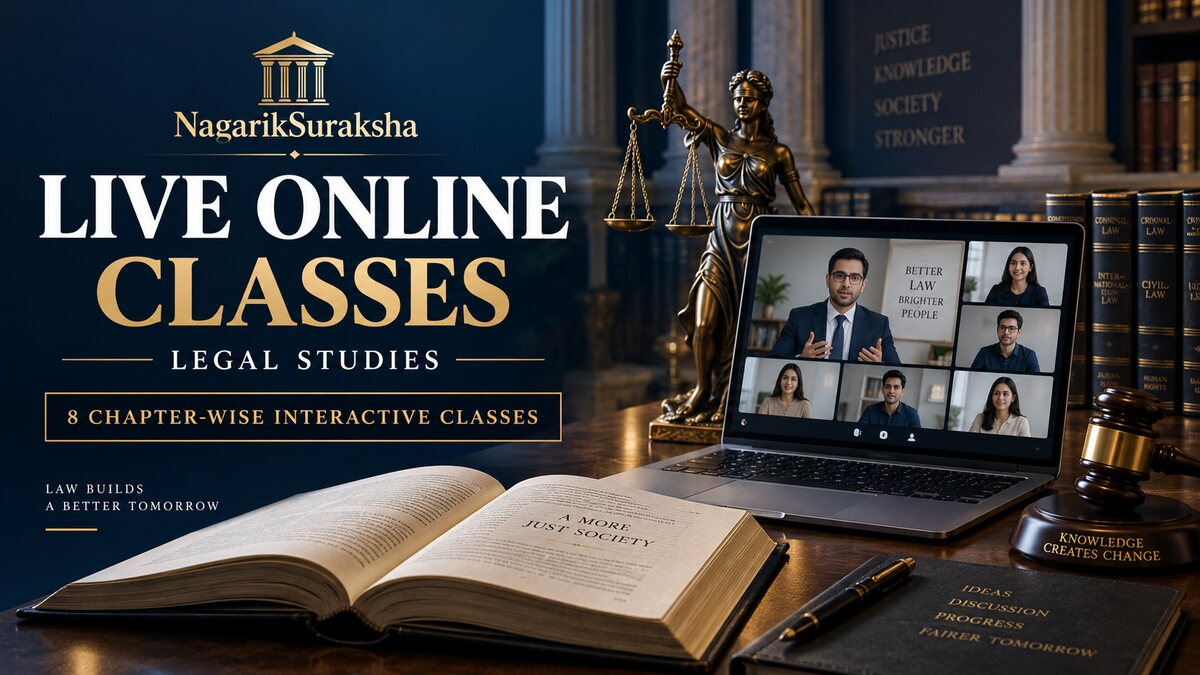
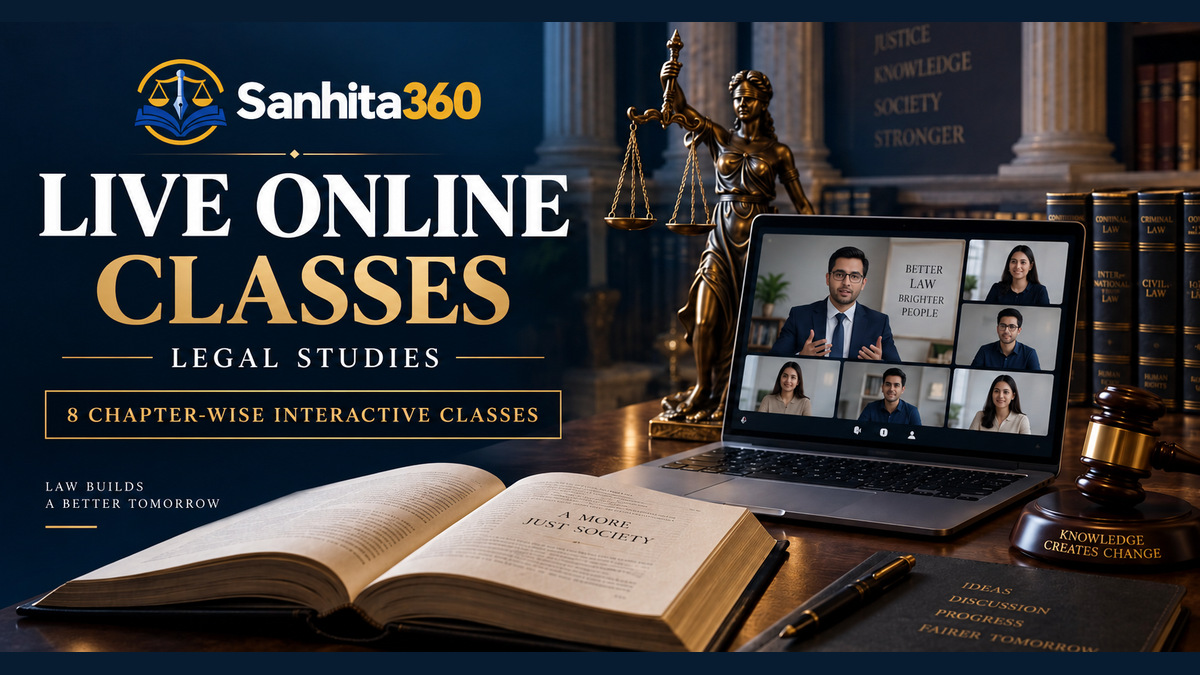
Use supplied live online classes artwork and consolidate image variants (#124)

diff --git a/src/features/public/courses/pages/LiveOnlineClassesPage.jsx b/src/features/public/courses/pages/LiveOnlineClassesPage.jsx
@@ -74,7 +74,7 @@ export default function LiveOnlineClassesPage() {
         title="Live Online Law Classes | Sanhita360"
         description="Request chapter-wise live online law classes with approximately eight interactive 45-minute sessions for your enrolled Sanhita360 course."
         canonical="/live-online-classes"
-        image="/live-online-classes-sanhita360.png"
+        image="/live-online-classes-og.jpg"
         keywords={[
           "live online law classes",
           "online legal studies classes",
@@ -117,7 +117,7 @@ export default function LiveOnlineClassesPage() {
 
             <img
               className="ns-live-hero-image"
-              src="/live-online-classes-sanhita360.png"
+              src="/live-online-classes-og.jpg"
               alt="Live Online Classes at Sanhita360"
             />
           </div>

diff --git a/worker/index.js b/worker/index.js
@@ -824,9 +824,9 @@ export default {
         {
           title: "Live Online Law Classes | Sanhita360",
           description: "Join approximately eight chapter-wise, 45-minute interactive online law classes. Ask questions live and strengthen your legal studies.",
-          image: `${url.origin}/live-online-classes-sanhita360.png`,
+          image: `${url.origin}/live-online-classes-og.jpg`,
           imageWidth: 1200,
-          imageHeight: 630,
+          imageHeight: 675,
         },
         canonicalUrl,
         socialUrl,
